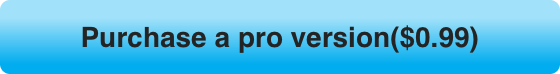
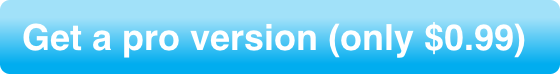
update UI

Changed region(s): [[0.0304, 0.2973, 0.9411, 0.7838]]

diff --git a/NoiseMeter/UI/Root/MoreView.m b/NoiseMeter/UI/Root/MoreView.m
@@ -55,8 +55,11 @@
         }
         
         _buyButton.autoresizingMask = UIViewAutoresizingFlexibleTopMargin;
+        [_buyButton setBackgroundColor:[UIColor darkGrayColor]];
+        //[_buyButton setTitle:@"Get a pro version($0.99)" forState:UIControlStateNormal];
         [_buyButton setImage:[UIImage imageNamed:@"purchase.png"] forState:UIControlStateNormal];
         [_buyButton addTarget:self action:@selector(buyAction) forControlEvents:UIControlEventTouchUpInside];
+        _buyButton.layer.cornerRadius = 5;
         [self.view addSubview:_buyButton];
     }
     

diff --git a/NoiseMeter/AppDelegate.m b/NoiseMeter/AppDelegate.m
@@ -19,8 +19,8 @@
 - (BOOL)application:(UIApplication *)application didFinishLaunchingWithOptions:(NSDictionary *)launchOptions
 {
     //##warning: only for test purpose,need to be removed in formal version
-    NSUserDefaults *userDefaults = [NSUserDefaults standardUserDefaults];
-    [userDefaults setBool:TRUE forKey:@"AD_REMOVED"];
+    //NSUserDefaults *userDefaults = [NSUserDefaults standardUserDefaults];
+    //[userDefaults setBool:TRUE forKey:@"AD_REMOVED"];
     
     
     [self setAppirater];
